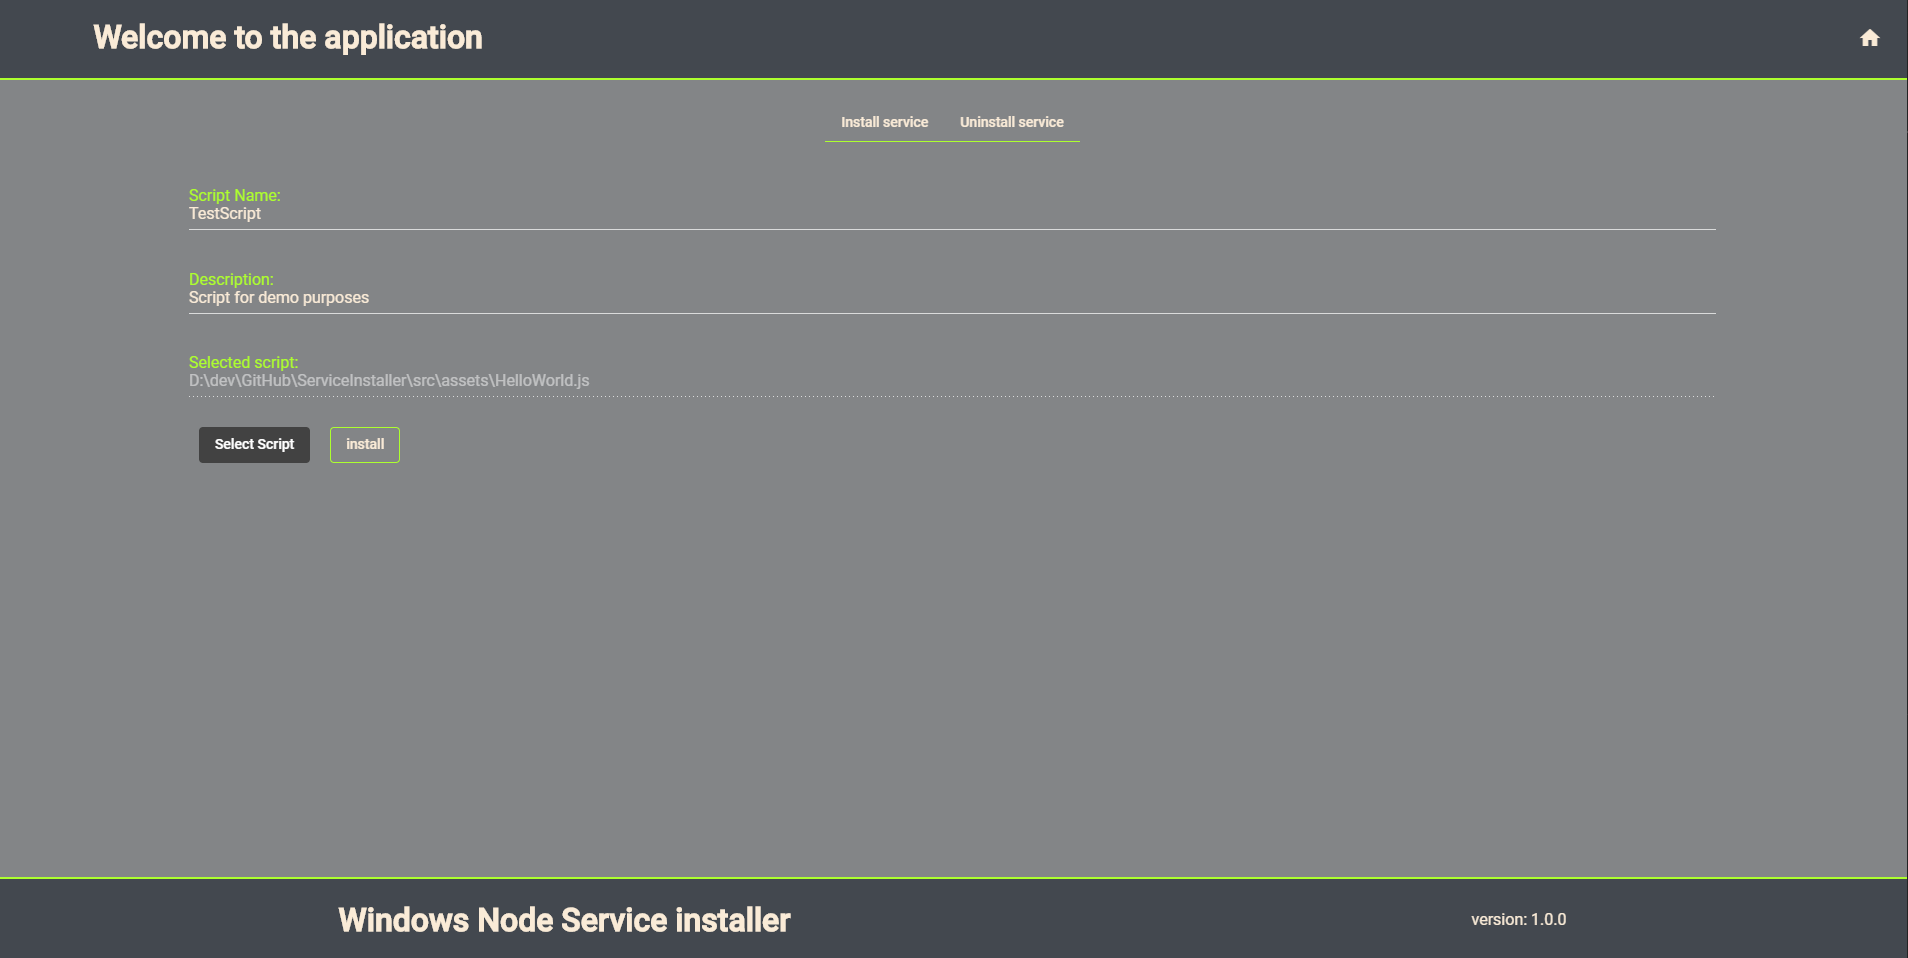
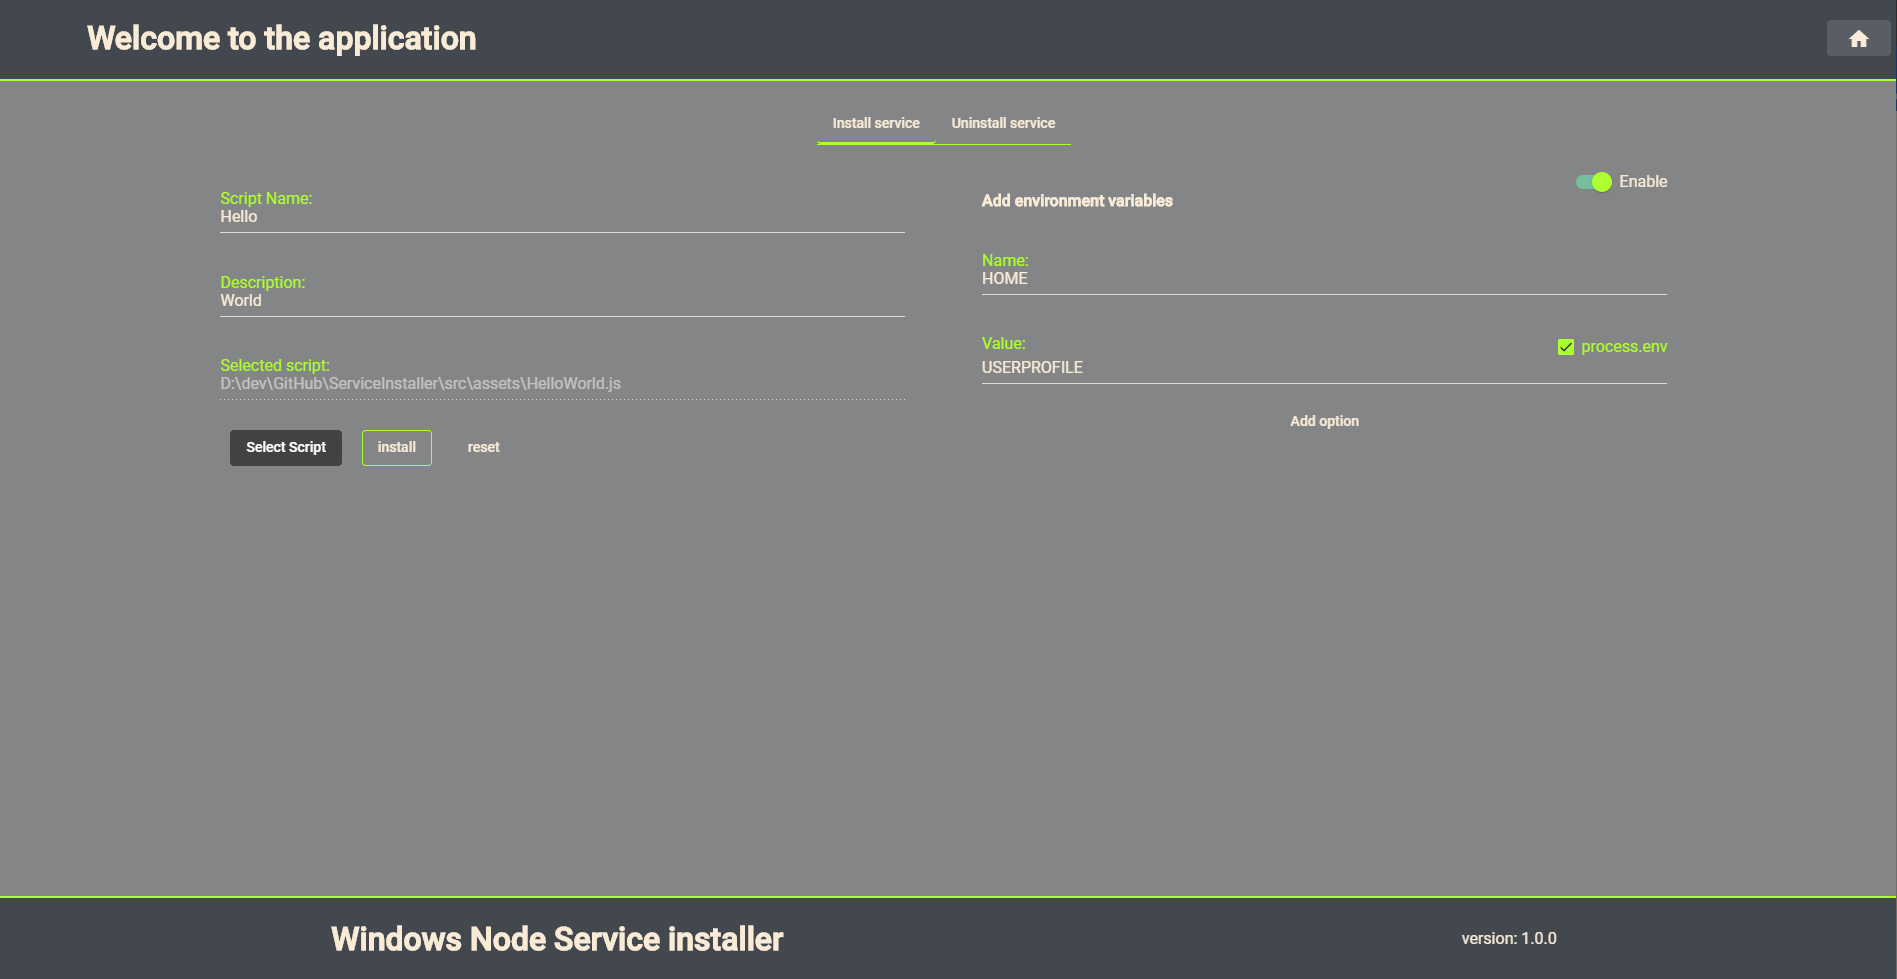
updated readme

diff --git a/README.md b/README.md
@@ -11,6 +11,38 @@ Select a script and click Install
 
 ![Install](images/Install.png)
 
+Optional:  
+  
+Add Environment variables to your script.  
+**enable** 'Add environment variables' function  
+Enter name and value  
+
+value can be a node proces.env, to activate this option check the process.env checkbox  
+**click** add option  
+You can add multiple environment variables at once.  
+
+- Process.env value  
+name: NODE_ENV  
+**check process.env checkbox**  
+value: USERPROFILE  
+  
+- Normal Value:  
+name: NODE_ENV  
+value: production      
+  
+will result in:  
+-ex
+```
+env: [{
+   name: "HOME",
+   value: process.env["USERPROFILE"] // Access the user home directory
+ },{
+   name: "NODE_ENV",
+   value: "production"
+ }]
+```
+
+
 ## Uninstalling
 
 Click uninstall next to the script you want to uninstall or in case of windows service terminate ( to be implemented )
